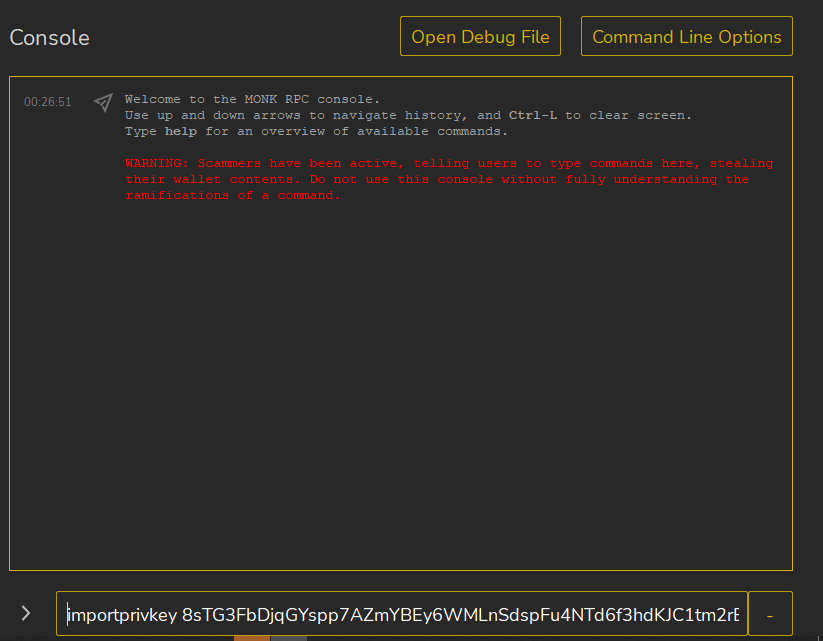
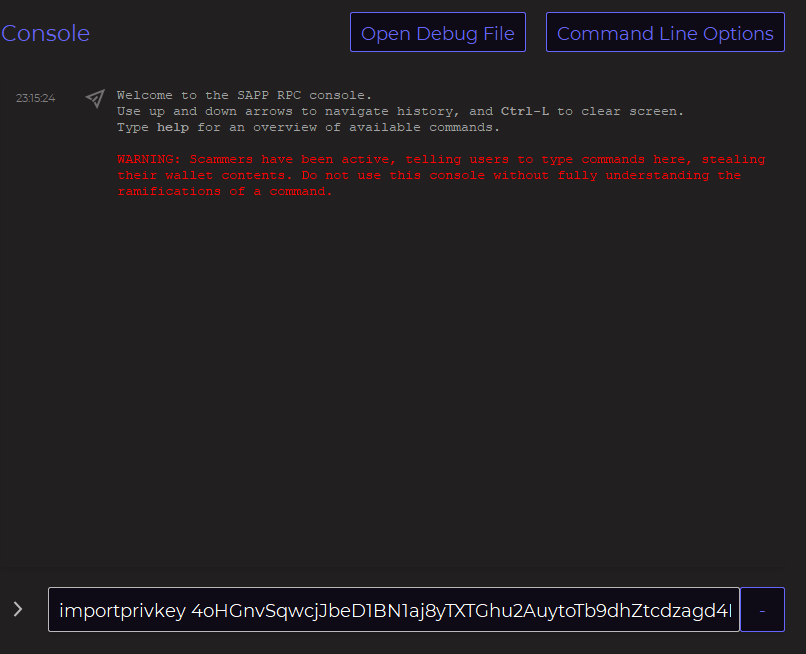
GITBOOK-253: Thereal's Jan 23 changes

diff --git a/tutorials/flits-wallet-app/wallet-operations-send-receive-transaction-history.md b/tutorials/flits-wallet-app/wallet-operations-send-receive-transaction-history.md
@@ -14,13 +14,13 @@ Receive coins from an external wallet using your dedicated wallet address
 
 * From the specific coin's wallet overview (i.e. FLS wallet), select '**Receive**'
 
-<figure><img src="../../.gitbook/assets/1 receive.jpg" alt=""><figcaption></figcaption></figure>
+<figure><img src="../../.gitbook/assets/1 receive (1).jpg" alt=""><figcaption></figcaption></figure>
 
 ### Step 2
 
 * Copy or share your wallet deposit address&#x20;
 
-<figure><img src="../../.gitbook/assets/2 recieve.jpg" alt=""><figcaption></figcaption></figure>
+<figure><img src="../../.gitbook/assets/2 recieve (1).jpg" alt=""><figcaption></figcaption></figure>
 
 ## Sending coins&#x20;
 
@@ -30,14 +30,14 @@ Send coins to yourself or external wallets
 
 * While on the Wallet overview page, choose '**Send**'.&#x20;
 
-<figure><img src="../../.gitbook/assets/1 send.jpg" alt=""><figcaption></figcaption></figure>
+<figure><img src="../../.gitbook/assets/1 send (2).jpg" alt=""><figcaption></figcaption></figure>
 
 ### Step 2
 
 * Enter the recipient's wallet address and amount as seen in the image below:
-* Click on '**Send**' when done
+* Click on '**Send coins**' when done
 
-<figure><img src="../../.gitbook/assets/2 send.jpg" alt=""><figcaption></figcaption></figure>
+<figure><img src="../../.gitbook/assets/2 send (1).jpg" alt=""><figcaption></figcaption></figure>
 
 ### Step 3
 

diff --git a/tutorials/flits-wallet-app/how-to-deploy-masternodes-in-the-flits-wallet-app.md b/tutorials/flits-wallet-app/how-to-deploy-masternodes-in-the-flits-wallet-app.md
@@ -17,13 +17,13 @@ description: >-
 
 * On the '**Overview**' tab in the FLS wallet, select '**Nodes**' as shown in the image below:
 
-<figure><img src="../../.gitbook/assets/mn.jpg" alt=""><figcaption></figcaption></figure>
+<figure><img src="../../.gitbook/assets/mn (1).jpg" alt=""><figcaption></figcaption></figure>
 
 ### Step 3
 
 * Click on '**New node**' to start the setup process
 
-<figure><img src="../../.gitbook/assets/2 mn.jpg" alt=""><figcaption></figcaption></figure>
+<figure><img src="../../.gitbook/assets/2 mn (1).jpg" alt=""><figcaption></figcaption></figure>
 
 ### Step 4
 
@@ -48,7 +48,7 @@ description: >-
 
 * Go back to the '**Masternodes**' tab, and you will find your masternode and its initial status.
 
-<figure><img src="../../.gitbook/assets/6 mn.jpg" alt=""><figcaption></figcaption></figure>
+<figure><img src="../../.gitbook/assets/6 mn (1).jpg" alt=""><figcaption></figcaption></figure>
 
 * &#x20;After about 30 minutes, the status of your masternode should change to '**Enabled**' as seen in the image below:
 

diff --git a/tutorials/flits-wallet-app/adding-and-removing-a-wallet.md b/tutorials/flits-wallet-app/adding-and-removing-a-wallet.md
@@ -38,10 +38,10 @@ description: Learn how to add and remove wallets for any coins in the Flits Wall
 * After you have added a couple of wallets and you wish to remove any of them,  Select the specific coin from the wallet window.
 * Click on the '**trash can**' icon
 
-<figure><img src="../../.gitbook/assets/5 fls wallet overview.jpg" alt=""><figcaption></figcaption></figure>
+<figure><img src="../../.gitbook/assets/5 fls wallet overview (1).jpg" alt=""><figcaption></figcaption></figure>
 
 ### Step 2
 
-* Confirm the operation to remove the coin
+* Confirm the operation to remove the coin.
 
 <figure><img src="../../.gitbook/assets/confirm hide.jpg" alt=""><figcaption></figcaption></figure>

diff --git a/tutorials/flits-wallet-app/using-the-flits-extraction-tool.md b/tutorials/flits-wallet-app/using-the-flits-extraction-tool.md
@@ -40,7 +40,7 @@ description: >-
 #### Step 3
 
 * Enter your Flits Wallet Seed phrase
-* Select the coin you want to extract the private key. In this guide, we choose MONK
+* Select the coin you want to extract the private key. In this guide, we choose SAPP
 * Copy the private key of the address you want to extract
 
 <figure><img src="../../.gitbook/assets/5 extraction.png" alt=""><figcaption></figcaption></figure>
@@ -49,7 +49,7 @@ description: >-
 
 #### Step 1
 
-* Open the MONK desktop wallet&#x20;
+* Open the SAPP desktop wallet&#x20;
 * Go to Settings, Debug, and then Console
 
 <figure><img src="../../.gitbook/assets/6 extraction.PNG" alt=""><figcaption></figcaption></figure>

diff --git a/tutorials/flits-wallet-app/how-to-use-the-flits-wallet-app.md b/tutorials/flits-wallet-app/how-to-use-the-flits-wallet-app.md
@@ -18,7 +18,7 @@ description: >-
 
 ### Platform Statistics
 
-<figure><img src="../../.gitbook/assets/platform starts.jpg" alt=""><figcaption></figcaption></figure>
+<figure><img src="../../.gitbook/assets/platform stats.jpg" alt=""><figcaption></figcaption></figure>
 
 * Provides an overview of the stats on the currently active users on the app, the total number of masternodes (MNs) deployed by users, and the total MN corresponding value in Bitcoin (BTC).
 * Below these stats is the current Price of BTC which is updated frequently.

diff --git a/tutorials/flits-wallet-app/running-flits-wallet-app-on-windows-and-macos-bluestacks.md b/tutorials/flits-wallet-app/running-flits-wallet-app-on-windows-and-macos-bluestacks.md
@@ -10,7 +10,7 @@ description: >-
 
 * To begin, we will need to download and save the Flit Wallet App APK file from [https://flitswallet.app/](https://flitswallet.app/) onto our PC&#x20;
 
-<figure><img src="../../.gitbook/assets/0 bs.PNG" alt=""><figcaption></figcaption></figure>
+<figure><img src="../../.gitbook/assets/0 bs (1).PNG" alt=""><figcaption></figcaption></figure>
 
 ### Step 2
 
